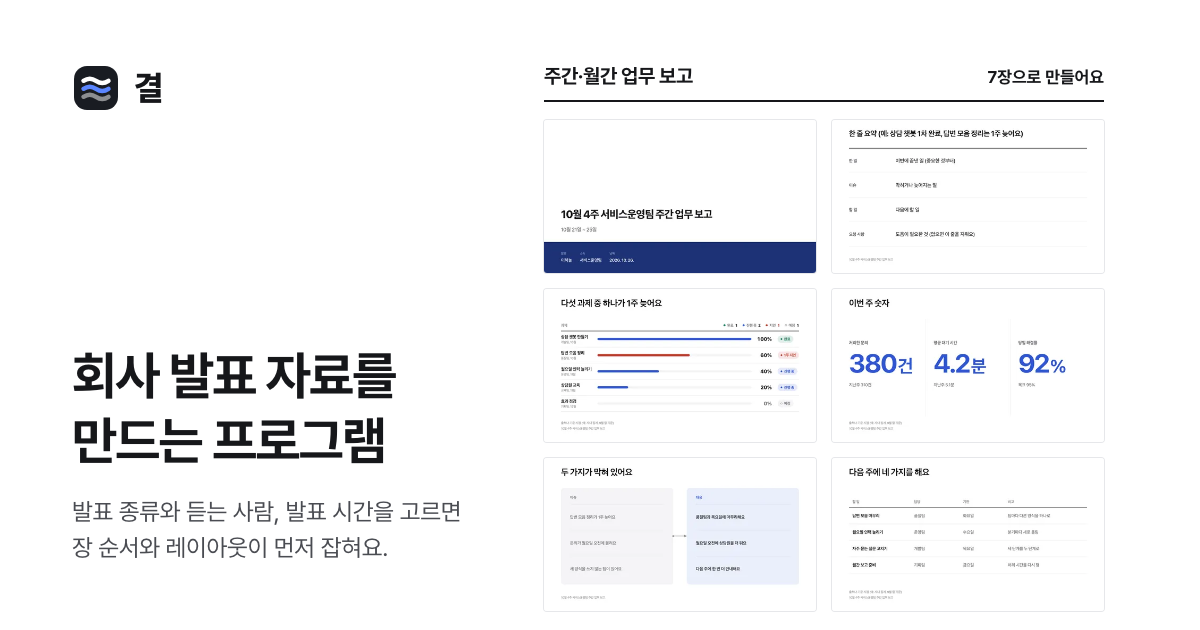
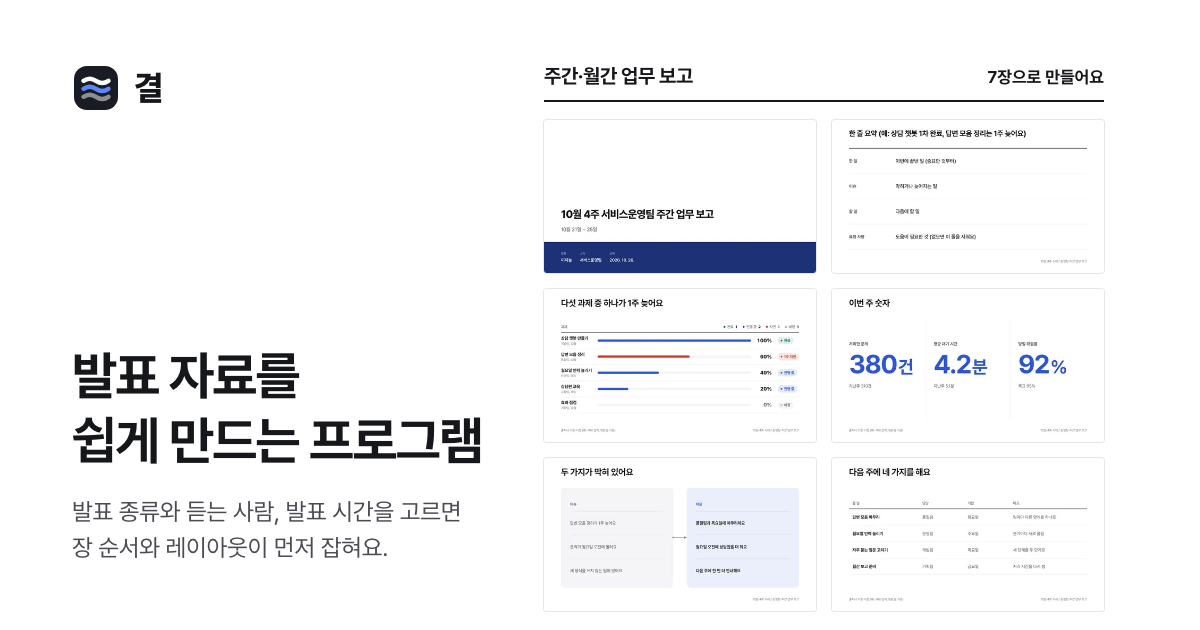
fix: 홍보 페이지와 사용법의 어색한 말을 고치고 회사 발표로 못 박지 않기
'0.4.1 판', '지어낸 것', '내려받기', '두 번 눌러요', '까닭', '바깥', '적은 내용'처럼 순화어나 예스러운 말이
많아 다듬어지지 않은 페이지처럼 읽혔다. 버전, 가상, 다운로드, 더블클릭, 이유, 외부, 작성한 내용처럼 흔히 쓰는
말로 바꾸고, 다운로드 구역도 사용 환경, 파일, 처음 실행할 때, 새 버전으로 업데이트할 때로 고쳤다. 컴포넌트 장의
'판'은 격자라고 쓴다.

결은 회사 발표에만 쓰지 않는데 제목, 첫 문장, 바닥줄, 공유 미리보기 그림이 '회사 발표 자료를 만드는 프로그램'
이라고 못 박고 있었다. '발표 자료를 쉽게 만드는 프로그램'으로 바꾸고 README도 맞췄다.

같은 말 고르기를 AGENTS.md '화면 문구'에 적어 두었다.

Claude-Session: https://claude.ai/code/session_01WYCmhNDHMyg9SdyxiMGoEV

diff --git a/site/index.html b/site/index.html
@@ -3,16 +3,16 @@
 <head>
   <meta charset="utf-8">
   <meta name="viewport" content="width=device-width, initial-scale=1">
-  <!-- 이 페이지도 결처럼 바깥 주소로 연결하지 않는다. 글꼴, 그림, 스크립트는 모두 이 폴더 안에 있다 -->
+  <!-- 이 페이지도 결처럼 외부 주소로 연결하지 않는다. 글꼴, 그림, 스크립트는 모두 이 폴더 안에 있다 -->
   <meta http-equiv="Content-Security-Policy" content="default-src 'none'; img-src 'self' data:; style-src 'self'; font-src 'self'; script-src 'self'; base-uri 'none'; form-action 'none'">
   <meta name="referrer" content="no-referrer">
-  <title>결 - 회사 발표 자료를 만드는 프로그램</title>
-  <meta name="description" content="결은 회사 발표 자료를 만드는 무료 프로그램이에요. 발표 종류와 듣는 사람, 발표 시간을 고르면 장 순서와 레이아웃이 먼저 잡히고, 칸만 채우면 돼요. 내 PC 안에서만 돌아가요.">
+  <title>결 - 발표 자료를 쉽게 만드는 프로그램</title>
+  <meta name="description" content="결은 발표 자료를 쉽게 만드는 무료 프로그램이에요. 발표 종류와 듣는 사람, 발표 시간을 고르면 장 순서와 레이아웃이 먼저 잡히고, 칸만 채우면 돼요. 내 PC 안에서만 실행돼요.">
   <meta name="theme-color" content="#ffffff">
   <meta property="og:type" content="website">
   <meta property="og:locale" content="ko_KR">
-  <meta property="og:title" content="결 - 회사 발표 자료를 만드는 프로그램">
-  <meta property="og:description" content="발표 종류와 듣는 사람, 발표 시간을 고르면 장 순서와 레이아웃이 먼저 잡히고, 칸만 채우면 돼요. 적은 내용은 이 PC 밖으로 나가지 않아요.">
+  <meta property="og:title" content="결 - 발표 자료를 쉽게 만드는 프로그램">
+  <meta property="og:description" content="발표 종류와 듣는 사람, 발표 시간을 고르면 장 순서와 레이아웃이 먼저 잡히고, 칸만 채우면 돼요. 작성한 내용은 이 PC 밖으로 나가지 않아요.">
   <meta property="og:url" content="https://wlsdks.github.io/gyeol/">
   <meta property="og:image" content="https://wlsdks.github.io/gyeol/images/og.png">
   <meta property="og:image:width" content="1200">
@@ -35,7 +35,7 @@
       <nav class="nav" aria-label="이 페이지">
         <a class="nav-link" href="#how">만드는 순서</a>
         <a class="nav-link" href="#security">보안</a>
-        <a class="nav-link nav-link-dl" href="#download">내려받기</a>
+        <a class="nav-link nav-link-dl" href="#download">다운로드</a>
         <a class="nav-gh" href="https://github.com/wlsdks/gyeol" aria-label="GitHub 저장소">
           <svg viewBox="0 0 16 16" aria-hidden="true"><path fill="currentColor" d="M8 0C3.58 0 0 3.58 0 8c0 3.54 2.29 6.53 5.47 7.59.4.07.55-.17.55-.38 0-.19-.01-.82-.01-1.49-2.01.37-2.53-.49-2.69-.94-.09-.23-.48-.94-.82-1.13-.28-.15-.68-.52-.01-.53.63-.01 1.08.58 1.23.82.72 1.21 1.87.87 2.33.66.07-.52.28-.87.51-1.07-1.78-.2-3.64-.89-3.64-3.95 0-.87.31-1.59.82-2.15-.08-.2-.36-1.02.08-2.12 0 0 .67-.21 2.2.82.64-.18 1.32-.27 2-.27.68 0 1.36.09 2 .27 1.53-1.04 2.2-.82 2.2-.82.44 1.1.16 1.92.08 2.12.51.56.82 1.27.82 2.15 0 3.07-1.87 3.75-3.65 3.95.29.25.54.73.54 1.48 0 1.07-.01 1.93-.01 2.2 0 .21.15.46.55.38A8.013 8.013 0 0016 8c0-4.42-3.58-8-8-8z"/></svg>
         </a>
@@ -46,16 +46,16 @@
   <main id="main">
     <section class="hero" aria-labelledby="hero-title">
       <div class="wrap">
-        <h1 id="hero-title">결은 회사 발표 자료를 만드는 프로그램이에요</h1>
-        <p class="lede">발표 종류와 듣는 사람, 발표 시간을 고르면 장 순서와 레이아웃이 먼저 잡혀요. 장마다 쓸 내용이 예시로 적혀 있어서 그 칸만 채우면 되고, 글상자를 옮기거나 줄을 맞출 일은 없어요.</p>
+        <h1 id="hero-title">결은 발표 자료를 쉽게 만드는 프로그램이에요</h1>
+        <p class="lede"><span>발표 종류와 듣는 사람, 발표 시간을 고르면 장 순서와 레이아웃이 먼저 잡혀요.</span> <span>칸마다 예시가 적혀 있어서 내용만 채우면 되고, 글상자를 옮기거나 줄을 맞출 일은 없어요.</span></p>
         <div class="cta">
           <a class="btn btn-dark" data-os="win" href="https://github.com/wlsdks/gyeol/releases/latest/download/gyeol-windows.zip">
             <svg class="btn-i" viewBox="0 0 20 20" aria-hidden="true"><path d="M10 3v9.5m0 0 3.75-3.75M10 12.5 6.25 8.75M4 16h12" fill="none" stroke="currentColor" stroke-width="1.8" stroke-linecap="round" stroke-linejoin="round"/></svg>
-            윈도우용 내려받기
+            윈도우용 다운로드
           </a>
           <a class="btn btn-line" data-os="mac" href="https://github.com/wlsdks/gyeol/releases/latest/download/gyeol-mac.zip">
             <svg class="btn-i" viewBox="0 0 20 20" aria-hidden="true"><path d="M10 3v9.5m0 0 3.75-3.75M10 12.5 6.25 8.75M4 16h12" fill="none" stroke="currentColor" stroke-width="1.8" stroke-linecap="round" stroke-linejoin="round"/></svg>
-            맥용 내려받기
+            맥용 다운로드
           </a>
           <p class="cta-note">무료 오픈소스예요. 설치 없이 압축만 풀면 되고, 크롬이나 엣지에서 열려요.</p>
         </div>
@@ -65,7 +65,7 @@
             <source media="(max-width: 640px)" srcset="images/hero-m.webp" width="1000" height="572">
             <img src="images/hero.webp" width="2400" height="1500" alt="결의 편집 화면. 왼쪽에 장 목록, 가운데에 3분기 매출과 영업이익, 요청 사항, 분기별 매출 막대가 놓인 장, 오른쪽에 끌어다 놓을 컴포넌트 목록이 있어요." fetchpriority="high">
           </picture>
-          <figcaption>편집 화면. 예시 발표의 이름과 숫자는 지어낸 것이에요.</figcaption>
+          <figcaption>편집 화면이에요. 예시 발표의 이름과 숫자는 모두 가상이에요.</figcaption>
         </figure>
       </div>
     </section>
@@ -80,7 +80,7 @@
               <span class="step-n" aria-hidden="true">1</span>
               <h3>발표 종류를 골라요</h3>
             </div>
-            <p class="step-text">회사에서 자주 하는 발표 열세 가지가 있어요.</p>
+            <p class="step-text">자주 하는 발표 13가지가 준비되어 있어요.</p>
             <div class="pick" data-pick hidden>
               <fieldset class="choice">
                 <legend>제안하고 결정받기</legend>
@@ -158,17 +158,17 @@
               <span class="step-n" aria-hidden="true">3</span>
               <h3>칸을 채워요</h3>
             </div>
-            <p class="step-text">흐린 글씨가 그 칸에 들어갈 내용의 예시예요. 눌러서 고쳐 쓰면 되고, 간격과 글자 크기는 결이 맞춰요. 고칠 때마다 저절로 저장돼요.</p>
+            <p class="step-text">흐린 글씨가 그 칸에 들어갈 내용의 예시예요. 눌러서 고쳐 쓰면 되고, 간격과 글자 크기는 결이 맞춰요. 고칠 때마다 자동으로 저장돼요.</p>
           </article>
           <article class="later-step">
             <figure class="shot shot-dark">
-              <img src="images/presenter.webp" width="1440" height="900" loading="lazy" alt="발표자 화면. 지금 장, 다음 장, 큰 글씨의 발표자 노트, 지난 시간 6분 44초가 있고 아래에 모든 장의 작은 그림이 있어요.">
+              <img src="images/presenter.webp" width="1440" height="900" loading="lazy" alt="발표자 화면. 지금 장, 다음 장, 큰 글씨의 발표자 노트, 경과 시간 6분 44초가 있고 아래에 모든 장의 작은 그림이 있어요.">
             </figure>
             <div class="step-head">
               <span class="step-n" aria-hidden="true">4</span>
               <h3>발표해요</h3>
             </div>
-            <p class="step-text">F5를 누르면 전체 화면으로 시작해요. 방향키나 클리커로 넘기고, 노트북에는 다음 장과 발표자 노트, 지난 시간이 보이는 발표자 화면이 따로 떠요.</p>
+            <p class="step-text">F5를 누르면 전체 화면으로 시작해요. 방향키나 클리커로 넘기고, 노트북에는 다음 장과 발표자 노트, 경과 시간이 보이는 발표자 화면이 따로 떠요.</p>
           </article>
         </div>
       </div>
@@ -181,21 +181,21 @@
         <div class="compose">
           <figure class="grid-shot">
             <div class="grid-frame">
-              <img src="images/compose.webp" width="1280" height="720" loading="lazy" alt="컴포넌트로 꾸민 장. 위에 불량률 전과 후, 한 해 아끼는 비용, 결정 요청이, 아래에 추이 차트와 다음 단계 목록이 판의 칸에 맞춰 빈틈없이 놓여 있어요.">
+              <img src="images/compose.webp" width="1280" height="720" loading="lazy" alt="컴포넌트로 꾸민 장. 위에 불량률 전과 후, 한 해 아끼는 비용, 결정 요청이, 아래에 추이 차트와 다음 단계 목록이 격자에 맞춰 빈틈없이 놓여 있어요.">
               <div class="board" aria-hidden="true"></div>
             </div>
-            <figcaption>판은 가로세로 열두 칸이에요. 빈 곳에 찍힌 점이 칸과 칸 사이를 보여 줘요.</figcaption>
+            <figcaption>장은 가로세로 12칸 격자로 나뉘어 있어요. 빈 곳의 점이 칸의 경계예요.</figcaption>
           </figure>
           <div class="compose-text">
             <h3>장을 직접 꾸밀 수도 있어요</h3>
-            <p>큰 숫자, 전과 후, 차트 같은 컴포넌트를 끌어다 놓으면 가로세로 열두 칸의 판에 맞춰 붙어요. 옆에 놓으면 너비를, 위나 아래에 놓으면 높이를 나누고, 글이 잘리거나 빈 곳이 남지 않게 판이 크기를 정해요. 사이의 선을 끌어 크기를 주고받을 수 있고, 자리가 모자라면 억지로 넣지 않고 까닭을 알려 줘요.</p>
+            <p>큰 숫자, 전과 후, 차트 같은 컴포넌트를 끌어다 놓으면 가로세로 12칸 격자에 맞춰 붙어요. 옆에 놓으면 너비를, 위나 아래에 놓으면 높이를 나누고, 글이 잘리거나 빈 곳이 남지 않게 크기가 자동으로 정해져요. 사이의 경계선을 끌어 크기를 조절할 수 있고, 자리가 모자라면 억지로 넣지 않고 이유를 알려 줘요.</p>
           </div>
         </div>
 
         <ul class="extras">
           <li>
             <h3>파일로 보내요</h3>
-            <p>HTML 파일 하나로 내보내면 받는 분은 결 없이 브라우저로 열어요. PDF로도, 장마다 그림 한 장씩 든 PowerPoint 파일로도 내보내요.</p>
+            <p>HTML 파일 하나로 내보내면 받는 사람은 결이 없어도 브라우저로 열 수 있어요. PDF나, 장을 이미지로 담은 PowerPoint 파일로도 내보낼 수 있어요.</p>
           </li>
           <li>
             <h3>버전이 남아요</h3>
@@ -215,21 +215,21 @@
 
     <section class="security" id="security" aria-labelledby="security-title">
       <div class="wrap">
-        <h2 id="security-title">적은 내용은 이 PC 밖으로 나가지 않아요</h2>
-        <p class="section-lede">회사 보안 자료로 발표를 만드는 일이 많아서, 처음부터 바깥과 연결하지 않게 만들었어요.</p>
+        <h2 id="security-title">작성한 내용은 이 PC 밖으로 나가지 않아요</h2>
+        <p class="section-lede">보안 자료로 만들어도 안심할 수 있게, 처음부터 외부와 연결되지 않도록 만들었어요.</p>
 
         <!-- 앱의 '한 장 요약' 장과 같은 짜임: 왼쪽에 한 줄 결론, 오른쪽에 그 근거 -->
         <div class="summary">
           <div class="row">
             <h3>이 PC에서만 열려요</h3>
             <div class="row-body">
-              <p>결은 이 PC의 127.0.0.1에서만 돌아요. 같은 네트워크에 있는 다른 PC도 들어올 수 없어요.</p>
+              <p>결은 이 PC 안(127.0.0.1)에서만 실행돼요. 같은 네트워크에 있는 다른 PC에서도 접속할 수 없어요.</p>
             </div>
           </div>
           <div class="row">
             <h3>인터넷에 연결하지 않아요</h3>
             <div class="row-body">
-              <p>글꼴과 그림까지 모두 안에 들어 있어요. 화면도, 내보낸 파일도 바깥 주소에 연결하지 못하게 막아 두었어요.</p>
+              <p>글꼴과 이미지까지 모두 프로그램 안에 들어 있어요. 화면도, 내보낸 파일도 외부 주소에 연결하지 못하게 막아 두었어요.</p>
             </div>
           </div>
           <div class="row">
@@ -247,9 +247,9 @@
                   <tr><th scope="col">AI에게 보이는 것</th><th scope="col">보이지 않는 것</th></tr>
                 </thead>
                 <tbody>
-                  <tr><td>발표 종류와 시간</td><td>제목과 적은 글</td></tr>
+                  <tr><td>발표 종류와 시간</td><td>제목과 작성한 글</td></tr>
                   <tr><td>장 순서와 레이아웃</td><td>숫자와 이미지</td></tr>
-                  <tr><td>칸이 비었는지</td><td>발표자 노트</td></tr>
+                  <tr><td>칸이 비어 있는지</td><td>발표자 노트</td></tr>
                   <tr><td>테마와 강조색</td><td>이름, 소속, 연락처</td></tr>
                 </tbody>
               </table>
@@ -258,11 +258,11 @@
           <div class="row">
             <h3>소스가 모두 공개되어 있어요</h3>
             <div class="row-body">
-              <p>MIT 라이선스의 오픈소스라서 누구나 코드를 확인할 수 있어요. 함께 쓰는 패키지와 글꼴도 <span class="nw">MIT</span>, <span class="nw">Apache-2.0</span>, <span class="nw">BSD</span>, <span class="nw">OFL</span>처럼 회사에서 써도 되는 라이선스예요.</p>
+              <p>MIT 라이선스의 오픈소스라서 누구나 코드를 확인할 수 있어요. 사용한 패키지와 글꼴도 <span class="nw">MIT</span>, <span class="nw">Apache-2.0</span>, <span class="nw">BSD</span>, <span class="nw">OFL</span>처럼 업무에도 자유롭게 쓸 수 있는 라이선스예요.</p>
               <p class="oss-links">
                 <a href="https://github.com/wlsdks/gyeol">소스 코드</a>
                 <a href="https://github.com/wlsdks/gyeol/blob/main/LICENSE">라이선스</a>
-                <a href="https://github.com/wlsdks/gyeol/blob/main/docs/OPEN-SOURCE.md">함께 쓰는 오픈소스</a>
+                <a href="https://github.com/wlsdks/gyeol/blob/main/docs/OPEN-SOURCE.md">사용한 오픈소스</a>
               </p>
             </div>
           </div>
@@ -273,36 +273,36 @@
     <section class="download" id="download" aria-labelledby="download-title">
       <div class="wrap">
         <div class="dl-top">
-          <h2 id="download-title">내려받기</h2>
-          <!-- 새 판을 올리면 판 번호와 날짜, 아래 두 파일의 크기를 같이 고친다. 판 번호가 package.json의 version과 같은지 scripts/site.test.ts가 본다 -->
-          <p class="dl-ver" data-version="0.4.1">0.4.1 판<span>2026년 10월 26일</span></p>
+          <h2 id="download-title">다운로드</h2>
+          <!-- 새 버전을 올리면 버전과 날짜, 아래 두 파일의 크기를 같이 고친다. 버전이 package.json의 version과 같은지 scripts/site.test.ts가 본다 -->
+          <p class="dl-ver" data-version="0.4.1">최신 버전 0.4.1<span>2026년 10월 26일</span></p>
         </div>
-        <p class="section-lede">크롬이나 엣지만 있으면 돼요. 설치도, 관리자 권한도 필요 없고, 인터넷은 받을 때만 있으면 돼요.</p>
+        <p class="section-lede">압축만 풀면 바로 쓸 수 있어요. 설치도, 관리자 권한도 필요 없어요.</p>
 
         <div class="os">
           <article class="os-col" data-os="win" aria-labelledby="os-win">
             <div class="os-head">
               <div class="os-title">
                 <h3 id="os-win">윈도우</h3>
-                <span class="os-mine" hidden>이 컴퓨터</span>
+                <span class="os-mine" hidden>지금 쓰는 컴퓨터</span>
               </div>
               <a class="btn btn-light" href="https://github.com/wlsdks/gyeol/releases/latest/download/gyeol-windows.zip">
                 <svg class="btn-i" viewBox="0 0 20 20" aria-hidden="true"><path d="M10 3v9.5m0 0 3.75-3.75M10 12.5 6.25 8.75M4 16h12" fill="none" stroke="currentColor" stroke-width="1.8" stroke-linecap="round" stroke-linejoin="round"/></svg>
-                윈도우용 내려받기
+                윈도우용 다운로드
               </a>
             </div>
             <dl class="os-meta">
-              <div><dt>맞는 컴퓨터</dt><dd>Windows 10, 11 (64비트)</dd></div>
-              <div><dt>받는 파일</dt><dd>gyeol-windows.zip, 46MB</dd></div>
+              <div><dt>사용 환경</dt><dd>Windows 10, 11 (64비트)</dd></div>
+              <div><dt>파일</dt><dd>gyeol-windows.zip (46MB)</dd></div>
             </dl>
             <ol class="howto">
-              <li>받은 파일을 마우스 오른쪽 버튼으로 눌러 <b>압축 풀기</b>를 해요. 압축 파일 안에서 바로 열면 켜지지 않아요.</li>
-              <li>푼 폴더에서 <span class="file">결 시작.bat</span>을 두 번 눌러요.</li>
-              <li>크롬이나 엣지에 <span class="file">127.0.0.1:41580</span>이 열려요. 작업 표시줄에 내려가 있는 서버 창을 닫으면 꺼져요.</li>
+              <li>다운로드한 파일을 마우스 오른쪽 버튼으로 눌러 <b>모두 압축 풀기</b>를 해요. 압축 파일 안에서 바로 열면 실행되지 않아요.</li>
+              <li>압축을 푼 폴더에서 <span class="file">결 시작.bat</span>을 더블클릭해요.</li>
+              <li>크롬이나 엣지에서 결이 열려요. 주소는 <span class="file">127.0.0.1:41580</span>이고, 작업 표시줄의 ‘결’ 창을 닫으면 종료돼요.</li>
             </ol>
             <div class="first">
-              <h4>처음 한 번만</h4>
-              <p>‘Windows의 PC 보호’ 창이 뜨면 <b>추가 정보</b>를 누르고 <b>실행</b>을 눌러요. 인터넷이나 메신저로 받은 파일이라서 뜨는 창이에요.</p>
+              <h4>처음 실행할 때</h4>
+              <p>‘Windows의 PC 보호’ 창이 뜨면 <b>추가 정보</b>를 누르고 <b>실행</b>을 눌러요. 인터넷이나 메신저로 받은 파일이면 뜨는 안내예요.</p>
             </div>
           </article>
 
@@ -310,37 +310,37 @@
             <div class="os-head">
               <div class="os-title">
                 <h3 id="os-mac">맥</h3>
-                <span class="os-mine" hidden>이 컴퓨터</span>
+                <span class="os-mine" hidden>지금 쓰는 컴퓨터</span>
               </div>
               <a class="btn btn-light" href="https://github.com/wlsdks/gyeol/releases/latest/download/gyeol-mac.zip">
                 <svg class="btn-i" viewBox="0 0 20 20" aria-hidden="true"><path d="M10 3v9.5m0 0 3.75-3.75M10 12.5 6.25 8.75M4 16h12" fill="none" stroke="currentColor" stroke-width="1.8" stroke-linecap="round" stroke-linejoin="round"/></svg>
-                맥용 내려받기
+                맥용 다운로드
               </a>
             </div>
             <dl class="os-meta">
-              <div><dt>맞는 컴퓨터</dt><dd>macOS 13.5 이상 (애플 실리콘, 인텔 모두)</dd></div>
-              <div><dt>받는 파일</dt><dd>gyeol-mac.zip, 89MB</dd></div>
+              <div><dt>사용 환경</dt><dd>macOS 13.5 이상 (애플 실리콘, 인텔 모두)</dd></div>
+              <div><dt>파일</dt><dd>gyeol-mac.zip (89MB)</dd></div>
             </dl>
             <ol class="howto">
-              <li>받은 파일을 두 번 눌러 압축을 풀어요.</li>
-              <li>푼 폴더에서 <span class="file">결 시작.command</span>를 두 번 눌러요.</li>
-              <li>크롬이나 엣지에 <span class="file">127.0.0.1:41580</span>이 열려요. 함께 뜬 터미널 창을 닫으면 꺼져요.</li>
+              <li>다운로드한 파일을 더블클릭해 압축을 풀어요.</li>
+              <li>압축을 푼 폴더에서 <span class="file">결 시작.command</span>를 더블클릭해요.</li>
+              <li>크롬이나 엣지에서 결이 열려요. 주소는 <span class="file">127.0.0.1:41580</span>이고, 함께 열린 터미널 창을 닫으면 종료돼요.</li>
             </ol>
             <div class="first">
-              <h4>처음 한 번만</h4>
-              <p>서명하지 않은 앱이라 처음에는 macOS가 열지 않아요. <b>시스템 설정 › 개인정보 보호 및 보안</b>에서 아래쪽의 <b>그래도 열기</b>를 누르고, 한 번 더 확인해요.</p>
+              <h4>처음 실행할 때</h4>
+              <p>애플 인증을 받지 않은 앱이라 처음에는 macOS가 실행을 막아요. <b>시스템 설정 › 개인정보 보호 및 보안</b> 아래쪽의 <b>그래도 열기</b>를 누른 뒤, 다시 더블클릭해서 <b>열기</b>를 눌러요.</p>
             </div>
           </article>
         </div>
 
         <div class="dl-more">
           <div>
-            <h4>새 판으로 바꿀 때</h4>
-            <p>켜 둔 창을 닫고 예전 폴더를 지운 뒤, 새로 받은 파일을 풀어요. 지금 쓰는 판은 결 첫 화면의 이름 옆에 보이고, 판마다 바뀐 점은 <a href="https://github.com/wlsdks/gyeol/releases">GitHub의 판 목록</a>에 있어요.</p>
+            <h4>새 버전으로 업데이트할 때</h4>
+            <p>켜 둔 결 창을 닫고 예전 폴더를 지운 뒤, 새로 다운로드한 파일의 압축을 풀어요. 지금 쓰는 버전은 결 첫 화면의 이름 옆에서 볼 수 있고, 버전별 업데이트 내역은 <a href="https://github.com/wlsdks/gyeol/releases">GitHub</a>에 있어요.</p>
           </div>
           <div>
             <h4>발표는 그대로 남아요</h4>
-            <p>발표는 브라우저와 직접 고른 보관 폴더에 저장돼서, 프로그램 폴더를 지워도 사라지지 않아요. 새 판에서 만든 발표는 예전 판에서 열지 않고 알려 주니, 발표 파일을 주고받는 사람끼리는 같은 판을 써 주세요.</p>
+            <p>발표는 브라우저와 직접 고른 보관 폴더에 저장돼서, 프로그램 폴더를 지워도 사라지지 않아요. 새 버전에서 만든 발표는 예전 버전에서 열리지 않으니, 발표 파일을 주고받는 사람끼리는 같은 버전을 써 주세요.</p>
           </div>
         </div>
       </div>
@@ -349,14 +349,14 @@
 
   <footer class="foot">
     <div class="wrap foot-in">
-      <p class="foot-about"><b>결</b>회사 발표 자료를 만드는 오픈소스 프로그램</p>
+      <p class="foot-about"><b>결</b>발표 자료를 쉽게 만드는 오픈소스 프로그램</p>
       <nav class="foot-links" aria-label="더 보기">
         <a href="https://github.com/wlsdks/gyeol">GitHub</a>
         <a href="https://github.com/wlsdks/gyeol/blob/main/LICENSE">MIT 라이선스</a>
-        <a href="https://github.com/wlsdks/gyeol/blob/main/docs/OPEN-SOURCE.md">함께 쓰는 오픈소스</a>
-        <a href="https://github.com/wlsdks/gyeol/issues">문제 알리기</a>
+        <a href="https://github.com/wlsdks/gyeol/blob/main/docs/OPEN-SOURCE.md">사용한 오픈소스</a>
+        <a href="https://github.com/wlsdks/gyeol/issues">오류 신고</a>
       </nav>
-      <p class="foot-small">예시 화면의 회사, 사람, 숫자는 모두 지어낸 것이에요. 글꼴은 <a href="fonts/LICENSE.txt">Pretendard(SIL OFL 1.1)</a>를 써요.</p>
+      <p class="foot-small">예시 화면에 나오는 회사, 사람, 숫자는 모두 가상이에요. 글꼴은 <a href="fonts/LICENSE.txt">Pretendard(SIL OFL 1.1)</a>를 써요.</p>
     </div>
   </footer>
 </body>

diff --git a/scripts/site.test.ts b/scripts/site.test.ts
@@ -1,4 +1,4 @@
-// 홍보 페이지(site/)는 손으로 고치는 정적 파일이라, 새 판을 올릴 때 잊기 쉬운 것과 지켜야 할 것만 본다
+// 홍보 페이지(site/)는 손으로 고치는 정적 파일이라, 새 버전을 올릴 때 잊기 쉬운 것과 지켜야 할 것만 본다
 import { readFileSync } from 'node:fs'
 import { join } from 'node:path'
 import { describe, expect, it } from 'vitest'
@@ -8,13 +8,13 @@ const html = readFileSync(join(ROOT, 'site', 'index.html'), 'utf8')
 const { version } = JSON.parse(readFileSync(join(ROOT, 'package.json'), 'utf8')) as { version: string }
 
 describe('홍보 페이지', () => {
-  it('내려받기에 적힌 판이 지금 판과 같다', () => {
+  it('다운로드에 적힌 버전이 지금 버전과 같다', () => {
     const shown = html.match(/data-version="([^"]+)"/)?.[1]
     expect(shown).toBe(version)
-    expect(html).toContain(`>${version} 판<`)
+    expect(html).toContain(`>최신 버전 ${version}<`)
   })
 
-  it('내려받기 단추는 늘 최신 판의 두 파일을 가리킨다', () => {
+  it('다운로드 단추는 늘 최신 버전의 두 파일을 가리킨다', () => {
     const links = [...html.matchAll(/href="([^"]*releases[^"]*\.zip)"/g)].map((m) => m[1])
     expect(new Set(links)).toEqual(
       new Set(['https://github.com/wlsdks/gyeol/releases/latest/download/gyeol-windows.zip', 'https://github.com/wlsdks/gyeol/releases/latest/download/gyeol-mac.zip']),

diff --git a/site/main.js b/site/main.js
@@ -65,8 +65,8 @@ const DECKS = {
   render()
 })()
 
-// 내려받기: 보고 있는 컴퓨터의 단추를 먼저 보인다. 맨 위에서는 그 단추를 앞에 짙게 두고, 내려받기 구역에서는
-// 그 쪽에 '이 컴퓨터'를 붙이고 다른 쪽 단추를 테두리만 둔다. 알 수 없으면(휴대폰, 태블릿, 다른 운영체제) HTML 그대로 둔다
+// 다운로드: 보고 있는 컴퓨터의 단추를 먼저 보인다. 맨 위에서는 그 단추를 앞에 짙게 두고, 다운로드 구역에서는
+// 그 쪽에 '지금 쓰는 컴퓨터'를 붙이고 다른 쪽 단추를 테두리만 둔다. 알 수 없으면(휴대폰, 태블릿, 다른 운영체제) HTML 그대로 둔다
 ;(() => {
   const platform = navigator.userAgentData?.platform || navigator.platform || ''
   // 아이패드는 platform이 MacIntel이라 손가락 터치로 가른다

diff --git a/AGENTS.md b/AGENTS.md
@@ -6,7 +6,7 @@
 
 이름은 **결**(영문 `gyeol`, 저장소 `wlsdks/gyeol`)입니다. 화면, 배포본, MCP 서버 이름에 씁니다. 저장 형식과 저장소 이름(`html-maker/deck` 같은 format, IndexedDB 이름, `/__html-maker/` 주소, BroadcastChannel, localStorage 키)은 예전 이름 그대로 둡니다. 바꾸면 예전에 저장한 발표를 읽지 못합니다.
 
-회사에서 PPT로 하던 발표를 HTML로 만드는 도구입니다. 팀장, 본부장께 결정을 받는 보고(사업 제안, 개선 제안, 계획)만이 아니라 주간 업무 보고, 결과·장애 보고, 프로젝트 착수, 지식 공유, 팀 소개처럼 동료나 다른 부서 앞에서 하는 발표도 다룹니다. 어느 한 직무(영업 같은)를 위한 도구가 아니라서, 설명과 안내 문구, 예시도 한 직무에 치우치지 않게 씁니다.
+PPT로 하던 발표를 HTML로 만드는 도구입니다. 회사 발표에만 쓰는 것이 아니라서 화면과 홍보 페이지에서 ‘회사 발표’로 못 박지 않습니다. 팀장, 본부장께 결정을 받는 보고(사업 제안, 개선 제안, 계획)만이 아니라 주간 업무 보고, 결과·장애 보고, 프로젝트 착수, 지식 공유, 팀 소개처럼 동료나 다른 부서 앞에서 하는 발표도 다룹니다. 어느 한 직무(영업 같은)를 위한 도구가 아니라서, 설명과 안내 문구, 예시도 한 직무에 치우치지 않게 씁니다.
 
 - 쓰는 사람은 대부분 **비개발자**입니다. 설명 없이 쓸 수 있어야 합니다.
 - 발표 종류와 듣는 사람, 시간을 고르면 구성(장 순서, 레이아웃, 칸마다 안내)이 잡히고, 사람은 내용만 채웁니다. 종류와 듣는 사람은 `src/deck/blueprints.ts`(`DECK_GROUPS`, `AUDIENCES`)에 있습니다.
@@ -74,7 +74,7 @@ npm run pack         # 나눠 줄 폴더와 zip (release/)
 | `server/` | 로컬 서버, AI 공유 창구, ‘AI에게 부탁’으로 Claude Code 띄우기(`agent.ts`), CSP |
 | `mcp/` | MCP 서버 |
 | `scripts/`, `launch/` | 묶기, 라이선스 확인, 더블클릭 실행 파일 |
-| `site/` | 홍보 페이지(GitHub Pages, https://wlsdks.github.io/gyeol/). 바깥 주소에서 아무것도 불러오지 않는 정적 파일(글꼴도 안에 둠, CSP). 새 판을 올리면 내려받기의 판 번호, 날짜, 파일 크기도 고칩니다(`scripts/site.test.ts`가 판 번호를 확인). 고친 뒤 올리기: `git subtree push --prefix site origin gh-pages` |
+| `site/` | 홍보 페이지(GitHub Pages, https://wlsdks.github.io/gyeol/). 바깥 주소에서 아무것도 불러오지 않는 정적 파일(글꼴도 안에 둠, CSP). 새 버전을 올리면 다운로드 구역의 버전, 날짜, 파일 크기도 고칩니다(`scripts/site.test.ts`가 버전을 확인). 고친 뒤 올리기: `git subtree push --prefix site origin gh-pages` |
 
 ## 디자인
 
@@ -106,6 +106,7 @@ npm run pack         # 나눠 줄 폴더와 zip (release/)
 - 화면에서는 “발표”, “장”, “칸”, “컴포넌트”라고 씁니다(코드와 문서의 ‘부품’이 화면에서는 컴포넌트). 덱, 필드, 렌더, 슬롯 같은 개발 용어는 쓰지 않습니다.
 - 듣는 사람은 “고객”이라고 쓰지 않습니다. 보고 받는 분(팀장, 본부장)일 수도, 팀 동료나 다른 부서일 수도 있으니 “듣는 사람”, “듣는 분”이라고 씁니다. 설명 글을 화면에 늘어놓지 말고, 꼭 필요한 설명은 옆의 (i) 툴팁(`Info`)으로 둡니다.
 - 오류 문구는 무엇이 안 됐고 어떻게 하면 되는지 말합니다. 사과하지 않습니다.
+- 순화어나 예스러운 말보다 흔히 쓰는 말로 씁니다: 버전(판), 다운로드(내려받기), 더블클릭(두 번 누르기), 이유(까닭), 자동으로(저절로), 외부(바깥), 가상의 예시(지어낸 것), 작성한 글(적은 글), 격자(컴포넌트 장의 판). 괄호 안의 말은 화면, 홍보 페이지, 사용법, 릴리스 설명에 쓰지 않습니다.
 
 ## 코드
 

diff --git a/README.md b/README.md
@@ -1,6 +1,6 @@
 # 결 (gyeol)
 
-회사에서 PPT로 만들던 발표 자료를 HTML로 만드는 도구입니다. 어느 한 직무를 위한 것이 아니라, 회사에서 하는 발표라면 무엇이든 만듭니다.
+PPT로 만들던 발표 자료를 HTML로 쉽게 만드는 도구입니다. 어느 한 직무나 회사 보고만을 위한 것이 아니라, 보고, 제안, 공유, 교육, 소개처럼 어떤 발표든 만듭니다.
 
 - **결정을 받는 발표:** 사업 제안, 개선 제안, 여러 안을 견준 검토 보고, 연간 계획
 - **진행과 결과를 알리는 발표:** 주간·월간 업무 보고, 실적 보고, 결과 보고, 문제·장애 보고
@@ -8,9 +8,9 @@
 
 듣는 사람도 정해 두지 않습니다. 본부장·임원, 팀장, 팀 동료, 다른 부서, 여러 분이 함께 듣는 자리 가운데 고르면 그 자리에 맞게 장을 고릅니다.
 
-어떤 발표인지(종류, 듣는 사람, 시간, 방식)를 고르면 장 구성과 레이아웃이 잡히고, 사람은 내용만 채우면 됩니다. 모양을 바꾸고 싶으면 컴포넌트를 끌어다 놓습니다. 놓는 순간 줄과 칸에 맞춰 붙고 간격과 글자 크기는 알아서 맞춰지니, 모양 잡기가 어려운 사람도 반듯하게 나옵니다. 이 PC 안에서만 돌고, 내용은 어디로도 보내지 않습니다.
+어떤 발표인지(종류, 듣는 사람, 시간, 방식)를 고르면 장 구성과 레이아웃이 잡히고, 사람은 내용만 채우면 됩니다. 모양을 바꾸고 싶으면 컴포넌트를 끌어다 놓습니다. 놓는 순간 줄과 칸에 맞춰 붙고 간격과 글자 크기는 알아서 맞춰지니, 모양 잡기가 어려운 사람도 반듯하게 나옵니다. 이 PC 안에서만 실행되고, 내용은 어디로도 보내지 않습니다.
 
-소개와 내려받기: **https://wlsdks.github.io/gyeol/**
+소개와 다운로드: **https://wlsdks.github.io/gyeol/**
 
 이름 ‘결’은 발표의 결을 잡아 준다는 뜻입니다.
 
@@ -24,7 +24,7 @@
 
 결은 서명을 받지 않은 오픈소스라서 처음 한 번은 운영체제가 막습니다. 윈도우가 "PC 보호" 창을 띄우면 **추가 정보 → 실행**을 누릅니다. 맥은 "확인되지 않은 개발자" 안내가 뜨면 **완료**를 누른 뒤 **시스템 설정 → 개인정보 보호 및 보안**의 **그래도 열기**를 누르고 다시 엽니다. 127.0.0.1에만 묶기 때문에 방화벽 허용 창은 뜨지 않습니다.
 
-나눠 줄 압축 파일은 `npm run pack`으로 만듭니다(`release/gyeol-windows.zip`, `release/gyeol-mac.zip`). 이때 개발 PC에서 nodejs.org의 공식 Node.js(윈도우 x64, 맥 arm64와 x64)를 한 번 받아 체크섬을 확인하고 넣습니다. 한글 파일 이름이 윈도우에서 깨지지 않게 zip을 직접 만들고, 윈도우용의 `.bat`은 CRLF, 안내 문서는 BOM을 붙인 UTF-8로 씁니다. zip 이름에 버전을 넣지 않아서 `releases/latest/download/gyeol-mac.zip` 같은 주소가 늘 최신 판을 받습니다.
+나눠 줄 압축 파일은 `npm run pack`으로 만듭니다(`release/gyeol-windows.zip`, `release/gyeol-mac.zip`). 이때 개발 PC에서 nodejs.org의 공식 Node.js(윈도우 x64, 맥 arm64와 x64)를 한 번 받아 체크섬을 확인하고 넣습니다. 한글 파일 이름이 윈도우에서 깨지지 않게 zip을 직접 만들고, 윈도우용의 `.bat`은 CRLF, 안내 문서는 BOM을 붙인 UTF-8로 씁니다. zip 이름에 버전을 넣지 않아서 `releases/latest/download/gyeol-mac.zip` 같은 주소가 늘 최신 버전을 받습니다.
 
 ## 이렇게 씁니다
 
